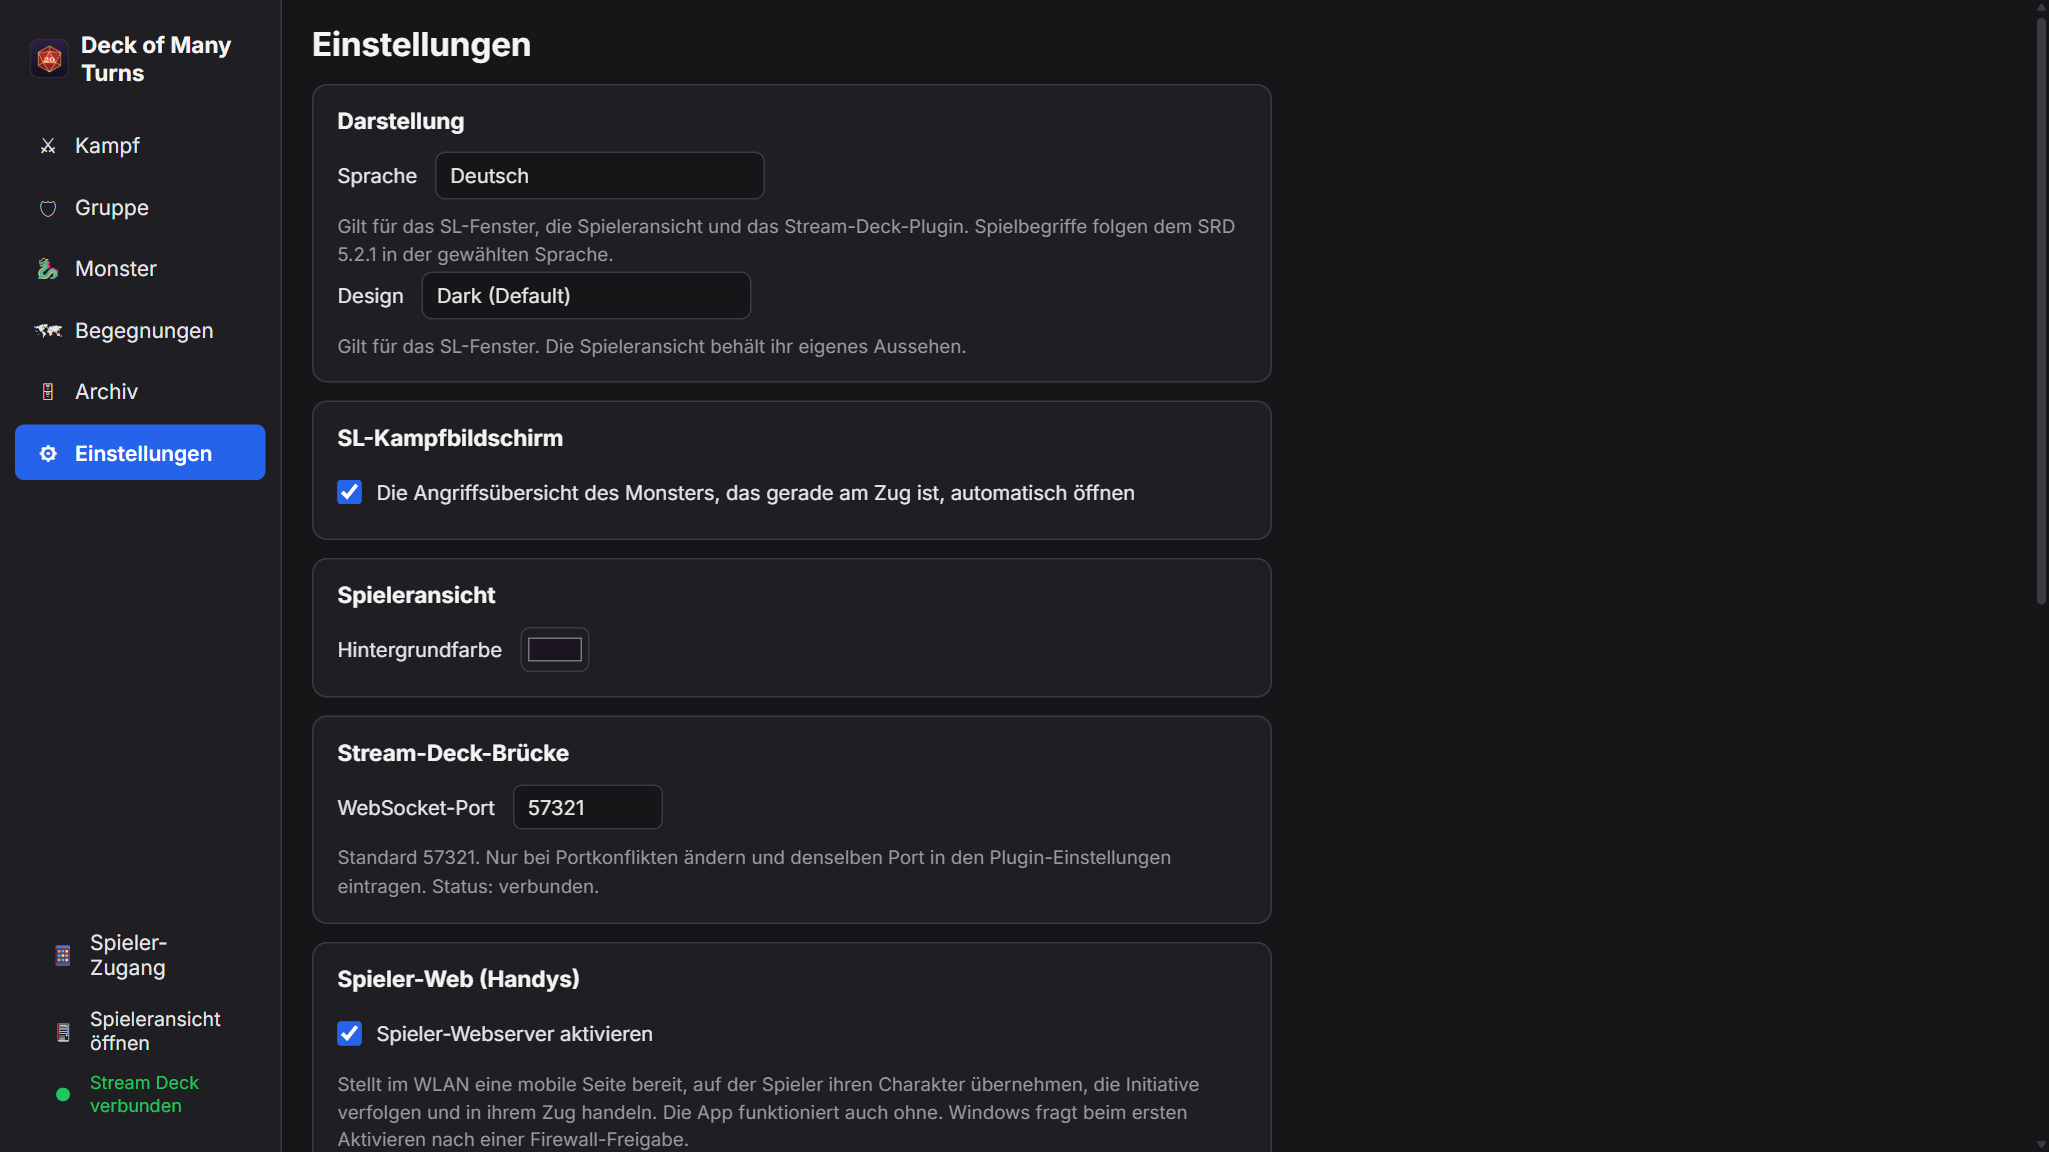
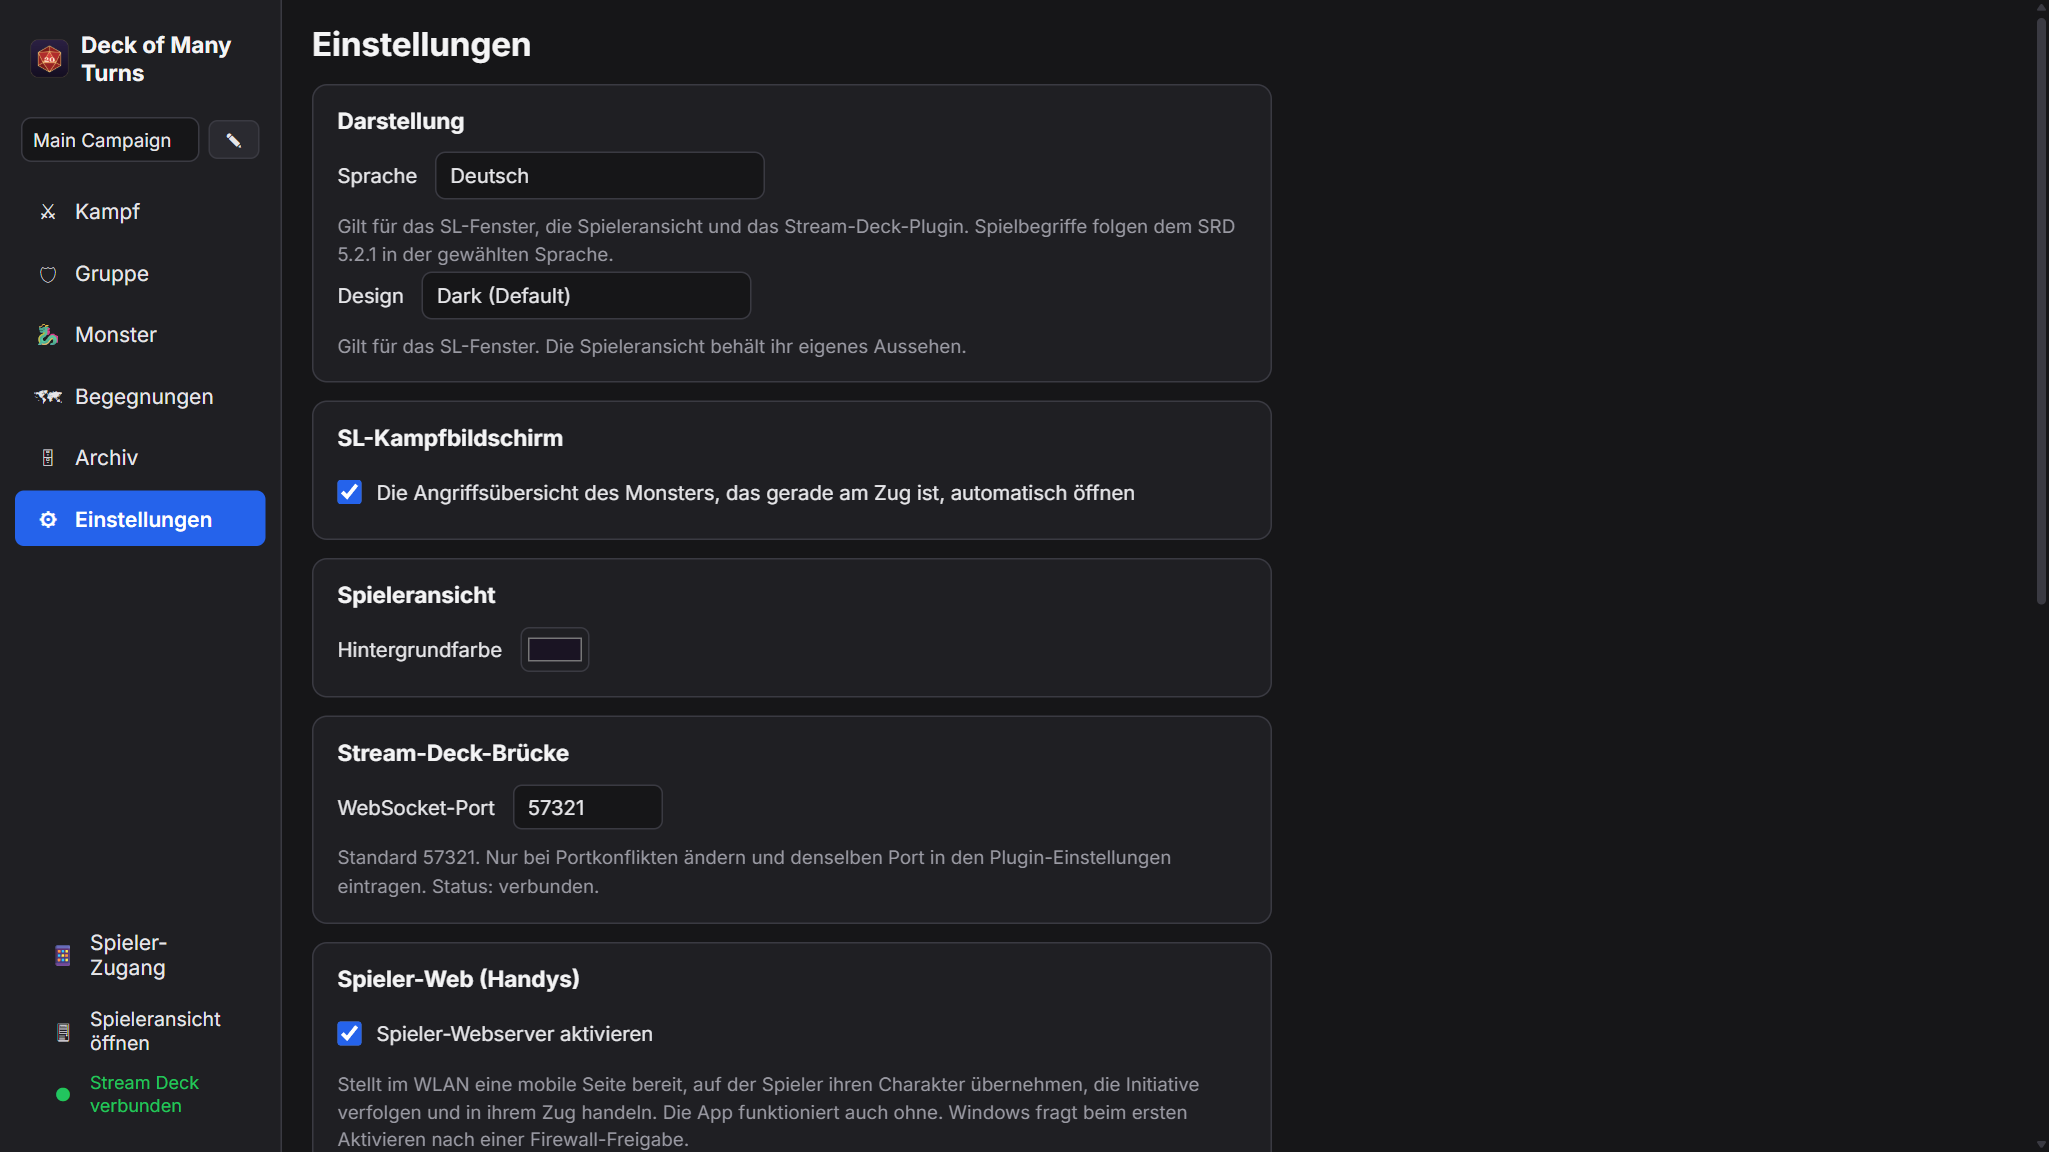
Release 3.2.0: campaigns — version bump, README section, fresh screenshots

Changed region(s): [[0.0, 0.2812, 0.1562, 0.5], [0.0, 0.0938, 0.0937, 0.1875], [0.0, 0.2188, 0.0937, 0.25]]

diff --git a/README.md b/README.md
@@ -23,7 +23,7 @@ already in progress.
 ![React](https://img.shields.io/badge/React-19-61DAFB?logo=react&logoColor=black)
 ![TypeScript](https://img.shields.io/badge/TypeScript-5.6-3178C6?logo=typescript&logoColor=white)
 ![Stream Deck](https://img.shields.io/badge/Stream%20Deck-SDK%20v2-000000?logo=elgato&logoColor=white)
-![Release](https://img.shields.io/badge/release-v3.1.2-success)
+![Release](https://img.shields.io/badge/release-v3.2.0-success)
 
 </div>
 
@@ -53,7 +53,7 @@ name, and the combat log keeps the story on the right.</i>
 - [Live demo](#live-demo)
 - [Install](#install)
 - [Using the app](#using-the-app)
-  - [Party](#party) · [Monsters](#monsters) · [Encounters](#encounters) · [Combat](#combat) · [Player View](#player-view--and-the-chroma-key-setup)
+  - [Campaigns](#campaigns) · [Party](#party) · [Monsters](#monsters) · [Encounters](#encounters) · [Combat](#combat) · [Player View](#player-view--and-the-chroma-key-setup)
   - [Combat log & archive](#combat-log--archive)
   - [Themes](#themes) · [Language](#language)
 - [Player phone companion](#player-phone-companion)
@@ -72,6 +72,7 @@ name, and the combat log keeps the story on the right.</i>
 
 |  | |
 | --- | --- |
+| 🗂 **Campaigns** | Run several tables from one install: party, encounters, combat and archive are scoped per campaign and [hot-swap from the sidebar](#campaigns) — even mid-combat. The monster library and settings stay shared. |
 | 🧙 **Party & monster libraries** | PCs with HP/AC/initiative and their own attacks; 331 SRD 5.2.1 monsters importable in one click, with ability scores and fully structured attacks. Add your own too. |
 | 📋 **Encounter templates** | Reusable monster + quantity sets (4× Goblin Warrior, 1× Bugbear). Start combat straight from a card. |
 | ⚔ **Combat engine** | Initiative rolling (all, or monsters-only), drag-to-settle ties, live HP and conditions in an aligned table, mid-combat monster adds, attack resolution vs AC with crits and save-for-half. |
@@ -89,8 +90,8 @@ name, and the combat log keeps the story on the right.</i>
 ## Live demo
 
 **https://lil-dank.github.io/deck-of-many-turns/** — the real renderer built for the
-browser, seeded with characters, encounters, the full SRD library and a combat
-mid-fight. The sidebar carries two simulators that are not mock-ups: the **player
+browser, seeded with two campaigns — characters, encounters, the full SRD library and
+a combat mid-fight. The sidebar carries two simulators that are not mock-ups: the **player
 phone** is the real mobile app, and the **Stream Deck** runs the plugin's actual picker
 state machine and key renderer — claim a character on the phone, roll from the deck,
 and watch the DM window and combat log react.
@@ -106,7 +107,7 @@ for anyone integrating their own hardware or overlays.
 
 Grab both files from the [**latest release**](../../releases/latest):
 
-1. **App** — run `Deck of Many Turns Setup 3.1.2.exe` (NSIS installer, choose your own directory).
+1. **App** — run `Deck of Many Turns Setup 3.2.0.exe` (NSIS installer, choose your own directory).
 2. **Stream Deck plugin** — double-click `com.dmtools.dnd-combat-tracker.streamDeckPlugin`;
    the Stream Deck app installs it and registers the bundled picker profiles.
 3. Start the app. The plugin connects within a few seconds — the DM window's sidebar
@@ -131,6 +132,22 @@ The app works standalone; the plugin needs the app running to do anything.
 ---
 
 ## Using the app
+
+### Campaigns
+
+The selector under the logo switches the whole table: **Party, Encounters, Combat and
+Archive belong to the active campaign**, while the monster library, settings and Player
+View stay global. Switching is a hot-swap — an in-progress combat is simply left where
+it stands and resumes the moment its campaign is mounted again, so you can end a session
+mid-fight, run a different group all evening, and pick the first fight back up next week.
+
+Connected player phones follow along: on a switch they drop back to the claim screen of
+the new campaign, and a PC claimed earlier re-attaches automatically when you switch
+back — no re-scanning QR codes. The ✎ button opens the manager for creating, renaming
+and deleting campaigns (the active and the last one are protected from deletion).
+
+Existing installs migrate on first launch: everything you had becomes **Main Campaign**,
+unchanged.
 
 ### Party
 
@@ -640,7 +657,7 @@ npm install
 npm run dev        # live-reload dev session
 npm run dev:mobile # (second terminal) rebuild the player web bundle on change
 npm run build      # compile main/preload/renderer + player web bundle to out/
-npm run dist       # → release/Deck of Many Turns Setup 3.1.2.exe (NSIS)
+npm run dist       # → release/Deck of Many Turns Setup 3.2.0.exe (NSIS)
 ```
 
 The player web page is served as plain static files from `out/mobile` in dev and
@@ -803,10 +820,13 @@ Project code is MIT-licensed (see `app/package.json`).
 
 - **In-progress combat persists across restarts:** the live combat is saved on every
   change and restored on launch.
-- **Location:** `%APPDATA%/deck-of-many-turns/data/*.json` — one file per store (PCs,
-  monsters, templates, settings, active combat, combat archive, player claims), loaded
+- **Location:** `%APPDATA%/deck-of-many-turns/data/` — one JSON file per store, loaded
   into id-indexed maps in the main process and written back atomically (temp file +
-  rename) on every change. First launch after the rename copies existing data from
-  the old `%APPDATA%/dnd-combat-tracker` location (the old folder stays as a backup).
+  rename) on every change. Global stores (monsters, settings, the campaign index) sit
+  at the root; each campaign keeps its own PCs, templates, active combat, archive and
+  player claims under `data/campaigns/<id>/`. First launch after the campaign update
+  moves existing data into a "Main Campaign" folder; first launch after the app rename
+  copies data from the old `%APPDATA%/dnd-combat-tracker` location (the old folder
+  stays as a backup).
 
 </details>
